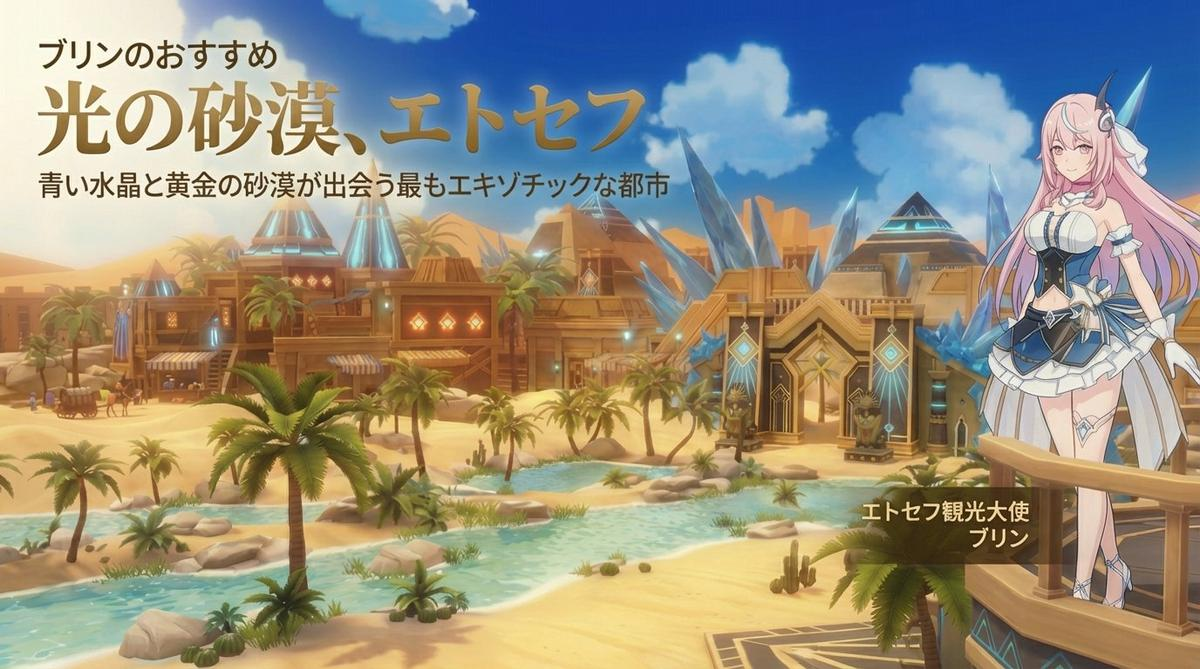
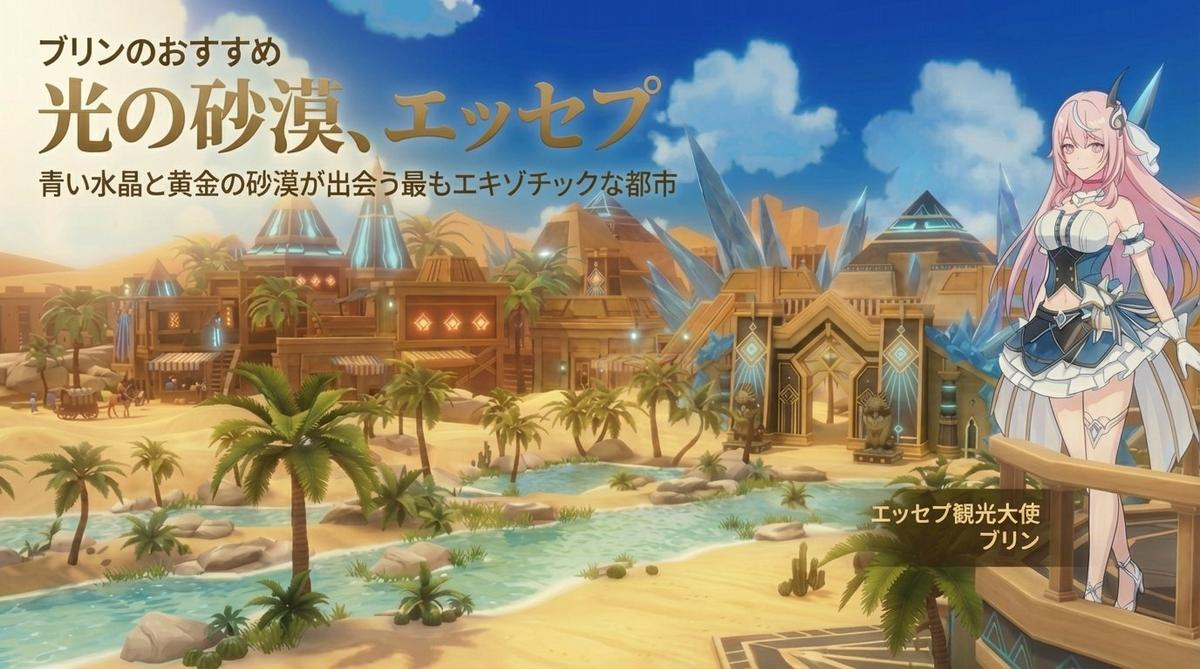
Update all HTML + images

diff --git a/index.html b/index.html
@@ -156,7 +156,7 @@ body {
 .read-more { color: var(--accent); font-weight: 500; text-decoration: none; }
 
 /* ── 광고 사이드 ── */
-.hero-ad { background: var(--ad-bg); display: flex; flex-direction: column; }
+.hero-ad { background: var(--ad-bg); display: flex; flex-direction: column; position: sticky; top: 0; align-self: start; max-height: 100vh; overflow-y: auto; }
 .ad-img-wrap { flex: 1; overflow: hidden; position: relative; min-height: 260px; }
 .ad-img-wrap img { width: 100%; height: 100%; object-fit: cover; display: block; }
 .ad-content { padding: 14px 16px 16px; flex-shrink: 0; }
@@ -928,12 +928,12 @@ body {
     <div class="ticker-item"><span class="ticker-label">EXP</span> Exflo Index <span class="tick-dn">▼ 892.40 −23.4%</span></div>
     <div class="ticker-item"><span class="ticker-label">DSR</span> Desert Oil <span class="tick-up">▲ 441.20 +2.1%</span></div>
     <div class="ticker-item"><span class="ticker-label">BTF</span> Battle Fund <span class="tick-dn">▼ 128.55 −8.7%</span></div>
-    <div class="ticker-item"><span class="ticker-label">ETH</span> Ether Index <span class="tick-dn">▼ −1.5p</span></div>
+    <div class="ticker-item"><span class="ticker-label">ETH</span> Ether Index <span class="tick-dn">▼ 1,024.30 −1.5%</span></div>
     <div class="ticker-item"><span class="ticker-label">MIR</span> Mirsha Exchange <span class="tick-dn">▼ 3,215.75 −16.81%</span></div>
     <div class="ticker-item"><span class="ticker-label">EXP</span> Exflo Index <span class="tick-dn">▼ 892.40 −23.4%</span></div>
     <div class="ticker-item"><span class="ticker-label">DSR</span> Desert Oil <span class="tick-up">▲ 441.20 +2.1%</span></div>
     <div class="ticker-item"><span class="ticker-label">BTF</span> Battle Fund <span class="tick-dn">▼ 128.55 −8.7%</span></div>
-    <div class="ticker-item"><span class="ticker-label">ETH</span> Ether Index <span class="tick-dn">▼ −1.5p</span></div>
+    <div class="ticker-item"><span class="ticker-label">ETH</span> Ether Index <span class="tick-dn">▼ 1,024.30 −1.5%</span></div>
   </div>
 </div>
 
@@ -1041,7 +1041,7 @@ body {
     <div class="feature-body">
       <div class="feature-eyebrow">브린 추천 · Lifestyle</div>
       <h3 class="feature-title">빛의 사막, 엣셉흐 — 공식 홍보대사 브린의 엣셉흐 에센스</h3>
-      <p class="feature-desc">사막 위의 오아시스 엣셉흐는 수많은 관광객이 방문하는 관광 명소이다. 하지만 아름다운 사막 아래에는 위험이 도사리고 있다는 사실을 대다수의 사람들은 잘 모르고 있다. 본 기사에서는 10년차 엣셉흐 전문 투어가이드의 노하우를 총 망라하여…</p>
+      <p class="feature-desc">사막 위의 오아시스 엣셉흐는 수많은 관광객이 방문하는 관광 명소이다. 하지만 아름다운 사막 아래에는 위험이 도사리고 있다는 사실을 대다수의 사람들은 잘 모르고 있다. 본 기사에서는 10년차 엣셉흐 전문 투어가이드의 노하우를 총망라하여…</p>
       <a class="feature-more" href="#">더보기 →</a>
     </div>
   </section>
@@ -1111,9 +1111,9 @@ const ARTICLES = {
     meta: '메르샤 타임즈 경제부 · 4월 1일',
     img: 'images/img_08.jpg',
     lead: '이엑스플로 국가 비상사태 소식이 전해지자마자 메르샤 거래소가 직격탄을 맞아 3,215.75로 마감, 단일 세션 기준 역대 최대 낙폭을 기록했다.',
-    body: `<p class="modal-text">이엑스플로는 화이트팔콘 왕국과 화친 관계에 있는 인접국으로, 양국 간 교역 비중이 높아 이번 비상사태가 메르샤 경제에 직접적인 파급 효과를 일으키고 있다. MIR 지수는 장중 한때 전일 대비 18%를 웃도는 급락세를 보였으며, 주요 교역 관련 종목을 중심으로 패닉셀이 집중됐다.</p>
+    body: `<p class="modal-text">이엑스플로는 화이트팔콘 왕국과 화친 관계에 있는 인접국으로, 양국 간 교역 비중이 높아 이번 비상사태가 메르샤 경제에 직접적인 파급 효과를 일으키고 있다. MIR 지수는 장중 한때 전일 대비 16%를 웃도는 급락세를 보였으며, 주요 교역 관련 종목을 중심으로 패닉셀이 집중됐다.</p>
     <blockquote class="modal-quote">"이엑스플로 사태가 장기화될 경우 양국 교역에 심각한 차질이 불가피합니다." — 메르샤 투자연구소 수석 애널리스트</blockquote>
-    <p class="modal-text">왕실 경제대책위원회는 긴급 회의를 열고 시장 안정화 조치를 검토 중이라고 밝혔다. 시장 전문가들은 이엑스플로 이레귤러 사태의 진압 추이에 따라 변동성이 더욱 확대될 수 있다고 경고하고 있다.</p>`
+    <p class="modal-text">왕실 경제대책위원회는 긴급회의를 열고 시장 안정화 조치를 검토 중이라고 밝혔다. 시장 전문가들은 이엑스플로 이레귤러 사태의 진압 추이에 따라 변동성이 더욱 확대될 수 있다고 경고하고 있다.</p>`
   },
   social: {
     cat: 'Social',
@@ -1155,7 +1155,7 @@ const ARTICLES = {
     meta: '메르샤 타임즈 라이프스타일부 · 4월 1일',
     img: 'images/img_09.jpg',
     lead: '사막 위의 오아시스 엣셉흐는 수많은 관광객이 방문하는 관광 명소이다. 하지만 아름다운 사막 아래에는 위험이 도사리고 있다.',
-    body: `<p class="modal-text">10년차 엣셉흐 전문 투어가이드의 노하우를 총 망라한 이번 특집 기사에서는, 엣셉흐를 안전하고 즐겁게 여행하는 방법을 상세히 소개한다. 공식 홍보대사 브린은 엣셉흐의 숨겨진 매력을 직접 안내해주기도 했다.</p>
+    body: `<p class="modal-text">10년차 엣셉흐 전문 투어가이드의 노하우를 총망라한 이번 특집 기사에서는, 엣셉흐를 안전하고 즐겁게 여행하는 방법을 상세히 소개한다. 공식 홍보대사 브린은 엣셉흐의 숨겨진 매력을 직접 안내해주기도 했다.</p>
     <blockquote class="modal-quote">"엣셉흐는 단순한 사막이 아니에요. 빛과 모래가 만들어내는 마법 같은 공간이죠." — 브린</blockquote>
     <p class="modal-text">무엇보다 중요한 것은 현지 가이드 동반 여행이다. 혼자 사막 깊숙이 들어가는 것은 매우 위험하며, 공식 투어 루트를 벗어나지 않도록 주의해야 한다.</p>`
   },
@@ -1191,7 +1191,7 @@ const ARTICLES = {
     img: 'images/img_12.jpg',
     lead: '엣셉흐 재건사업이 진행되는 현장에서 충격적인 제보가 본지에 입수됐다. 재건사업 현장을 지휘하고 있던 인물이 다름 아닌 반군의 우두머리 카메스였던 것이다.',
     body: `<p class="modal-text">본지에 제보된 사진은 그야말로 충격 그 자체였다. 엣셉흐 재건사업을 진두지휘하고 있던 인물이 다름 아닌 국왕의 극렬한 반대파였던 카메스였던 것. 왕국의 재건사업에 왕국을 몰락시키려 했던 반군의 수장을 기용한다는 것은 일반 국민의 시선에서는 도저히 납득하기 어려운 상황이다.</p>
-    <p class="modal-text">총 사업비 24조 골드라는 천문학적 비용이 투입되는 1차 재건사업은 본래 요타 국왕이 직접 진두지휘할 것으로 알려져 있었다. 그러나 현장에서는 카메스가 실질적인 지휘를 맡고 있었다. 익명의 왕국 고위 관계자는 인터뷰를 통해 그 배경을 이렇게 설명했다.</p>
+    <p class="modal-text">총사업비 24조 골드라는 천문학적 비용이 투입되는 1차 재건사업은 본래 요타 국왕이 직접 진두지휘할 것으로 알려져 있었다. 그러나 현장에서는 카메스가 실질적인 지휘를 맡고 있었다. 익명의 왕국 고위 관계자는 인터뷰를 통해 그 배경을 이렇게 설명했다.</p>
     <blockquote class="modal-quote">"재건 인력 부족이 가장 큰 문제였다. 반군을 융화하는 방식이 해외 노동자 투입 대비 예산 절감 효과가 상당했을 것이다." — 익명의 왕국 고위 관계자</blockquote>
     <p class="modal-text">복수의 왕국 관계자들은 국왕이 AI 기반의 사고방식으로 인해 상식적으로 납득하기 어려운 결정을 종종 내린다는 점을 넌지시 시사하기도 했다. 본지가 카파 경비대장에게 반군 기용에 따른 보안 관리 문제에 대해 서면 질의를 보냈으나 끝내 답변을 받지 못했다. 한편 재건사업 주체를 파악하는 과정에서 2차 하도급법 위반 사례가 있다는 주장까지 터져나오면서 이번 사업을 둘러싼 갈등은 더욱 첨예해질 것으로 전망된다.</p>`
   }
@@ -1410,7 +1410,7 @@ function copyRoyalCoupon() {
       </div>
     </div>
     <!-- 0401 서비스 컷 -->
-    <div class="clinic-after" id="clinicAfter">
+    <div class="clinic-after" id="clinicAfter" onclick="if(event.target===this)closeClinic()">
       <button class="clinic-close" onclick="closeClinic()">✕</button>
       <img src="images/clinic_after.jpg" alt="After" onerror="this.style.display='none'">
     </div>
@@ -1461,7 +1461,7 @@ function copyRoyalCoupon() {
       </div>
     </div>
     <!-- 쿠폰 코드 -->
-    <div class="royal-coupon" id="royalCoupon">
+    <div class="royal-coupon" id="royalCoupon" onclick="if(event.target===this)closeRoyal()">
       <button class="royal-close" onclick="closeRoyal()">✕</button>
       <div class="royal-coupon-box">
         <div class="royal-coupon-icon">🎁</div>

diff --git a/index_ja.html b/index_ja.html
@@ -156,7 +156,7 @@ body {
 .read-more { color: var(--accent); font-weight: 500; text-decoration: none; }
 
 /* ── 광고 사이드 ── */
-.hero-ad { background: var(--ad-bg); display: flex; flex-direction: column; }
+.hero-ad { background: var(--ad-bg); display: flex; flex-direction: column; position: sticky; top: 0; align-self: start; max-height: 100vh; overflow-y: auto; }
 .ad-img-wrap { flex: 1; overflow: hidden; position: relative; min-height: 260px; }
 .ad-img-wrap img { width: 100%; height: 100%; object-fit: cover; display: block; }
 .ad-content { padding: 14px 16px 16px; flex-shrink: 0; }
@@ -201,7 +201,7 @@ body {
 /* ── 피처 배너 ── */
 .feature-band {
   background: #ede8de; border-bottom: 1px solid var(--rule);
-  display: grid; grid-template-columns: minmax(420px, 420px) 1fr;
+  display: grid; grid-template-columns: 420px 1fr;
   overflow: hidden; cursor: pointer; transition: background 0.15s;
   align-items: stretch;
 }
@@ -928,12 +928,12 @@ body {
     <div class="ticker-item"><span class="ticker-label">EXP</span> Exflo Index <span class="tick-dn">▼ 892.40 −23.4%</span></div>
     <div class="ticker-item"><span class="ticker-label">DSR</span> Desert Oil <span class="tick-up">▲ 441.20 +2.1%</span></div>
     <div class="ticker-item"><span class="ticker-label">BTF</span> Battle Fund <span class="tick-dn">▼ 128.55 −8.7%</span></div>
-    <div class="ticker-item"><span class="ticker-label">ETH</span> Ether Index <span class="tick-dn">▼ −1.5p</span></div>
+    <div class="ticker-item"><span class="ticker-label">ETH</span> Ether Index <span class="tick-dn">▼ 1,024.30 −1.5%</span></div>
     <div class="ticker-item"><span class="ticker-label">MIR</span> Mirsha Exchange <span class="tick-dn">▼ 3,215.75 −16.81%</span></div>
     <div class="ticker-item"><span class="ticker-label">EXP</span> Exflo Index <span class="tick-dn">▼ 892.40 −23.4%</span></div>
     <div class="ticker-item"><span class="ticker-label">DSR</span> Desert Oil <span class="tick-up">▲ 441.20 +2.1%</span></div>
     <div class="ticker-item"><span class="ticker-label">BTF</span> Battle Fund <span class="tick-dn">▼ 128.55 −8.7%</span></div>
-    <div class="ticker-item"><span class="ticker-label">ETH</span> Ether Index <span class="tick-dn">▼ −1.5p</span></div>
+    <div class="ticker-item"><span class="ticker-label">ETH</span> Ether Index <span class="tick-dn">▼ 1,024.30 −1.5%</span></div>
   </div>
 </div>
 
@@ -1111,7 +1111,7 @@ const ARTICLES = {
     meta: 'メルシャ・タイムズ経済部 · 4月1日',
     img: 'images/img_08.jpg',
     lead: 'イエクスプロー国家非常事態のニュースが伝わるや否や、メルシャ取引所は直撃を受け3,215.75で取引を終えた。1日の取引としては過去最大の下落幅を記録した。',
-    body: `<p class="modal-text">イエクスプローはホワイトファルコン王国と和平関係にある隣国であり、両国間の貿易比重が高いことから、今回の非常事態はメルシャ経済に直接的な波及効果をもたらしている。MIR指数は場中一時、前日比18%を超える急落を見せ、主要貿易関連銘柄を中心にパニック売りが集中した。</p>
+    body: `<p class="modal-text">イエクスプローはホワイトファルコン王国と和平関係にある隣国であり、両国間の貿易比重が高いことから、今回の非常事態はメルシャ経済に直接的な波及効果をもたらしている。MIR指数は場中一時、前日比16%を超える急落を見せ、主要貿易関連銘柄を中心にパニック売りが集中した。</p>
     <blockquote class="modal-quote">「イエクスプロー事態が長期化した場合、両国間の貿易に深刻な支障が生じることは避けられません」 — メルシャ投資研究所チーフアナリスト</blockquote>
     <p class="modal-text">王室経済対策委員会は緊急会議を開き、市場安定化措置を検討中であると発表した。市場の専門家たちは、イエクスプローにおけるイレギュラー鎮圧の進捗次第では変動性がさらに拡大する可能性があると警告している。</p>`
   },
@@ -1410,7 +1410,7 @@ function copyRoyalCoupon() {
       </div>
     </div>
     <!-- 0401 서비스 컷 -->
-    <div class="clinic-after" id="clinicAfter">
+    <div class="clinic-after" id="clinicAfter" onclick="if(event.target===this)closeClinic()">
       <button class="clinic-close" onclick="closeClinic()">✕</button>
       <img src="images/clinic_after.jpg" alt="After" onerror="this.style.display='none'">
     </div>
@@ -1461,7 +1461,7 @@ function copyRoyalCoupon() {
       </div>
     </div>
     <!-- 쿠폰 코드 -->
-    <div class="royal-coupon" id="royalCoupon">
+    <div class="royal-coupon" id="royalCoupon" onclick="if(event.target===this)closeRoyal()">
       <button class="royal-close" onclick="closeRoyal()">✕</button>
       <div class="royal-coupon-box">
         <div class="royal-coupon-icon">🎁</div>

diff --git a/index_tw.html b/index_tw.html
@@ -156,7 +156,7 @@ body {
 .read-more { color: var(--accent); font-weight: 500; text-decoration: none; }
 
 /* ── 광고 사이드 ── */
-.hero-ad { background: var(--ad-bg); display: flex; flex-direction: column; }
+.hero-ad { background: var(--ad-bg); display: flex; flex-direction: column; position: sticky; top: 0; align-self: start; max-height: 100vh; overflow-y: auto; }
 .ad-img-wrap { flex: 1; overflow: hidden; position: relative; min-height: 260px; }
 .ad-img-wrap img { width: 100%; height: 100%; object-fit: cover; display: block; }
 .ad-content { padding: 14px 16px 16px; flex-shrink: 0; }
@@ -201,7 +201,7 @@ body {
 /* ── 피처 배너 ── */
 .feature-band {
   background: #ede8de; border-bottom: 1px solid var(--rule);
-  display: grid; grid-template-columns: minmax(420px, 420px) 1fr;
+  display: grid; grid-template-columns: 420px 1fr;
   overflow: hidden; cursor: pointer; transition: background 0.15s;
   align-items: stretch;
 }
@@ -928,12 +928,12 @@ body {
     <div class="ticker-item"><span class="ticker-label">EXP</span> Exflo Index <span class="tick-dn">▼ 892.40 −23.4%</span></div>
     <div class="ticker-item"><span class="ticker-label">DSR</span> Desert Oil <span class="tick-up">▲ 441.20 +2.1%</span></div>
     <div class="ticker-item"><span class="ticker-label">BTF</span> Battle Fund <span class="tick-dn">▼ 128.55 −8.7%</span></div>
-    <div class="ticker-item"><span class="ticker-label">ETH</span> Ether Index <span class="tick-dn">▼ −1.5p</span></div>
+    <div class="ticker-item"><span class="ticker-label">ETH</span> Ether Index <span class="tick-dn">▼ 1,024.30 −1.5%</span></div>
     <div class="ticker-item"><span class="ticker-label">MIR</span> Mirsha Exchange <span class="tick-dn">▼ 3,215.75 −16.81%</span></div>
     <div class="ticker-item"><span class="ticker-label">EXP</span> Exflo Index <span class="tick-dn">▼ 892.40 −23.4%</span></div>
     <div class="ticker-item"><span class="ticker-label">DSR</span> Desert Oil <span class="tick-up">▲ 441.20 +2.1%</span></div>
     <div class="ticker-item"><span class="ticker-label">BTF</span> Battle Fund <span class="tick-dn">▼ 128.55 −8.7%</span></div>
-    <div class="ticker-item"><span class="ticker-label">ETH</span> Ether Index <span class="tick-dn">▼ −1.5p</span></div>
+    <div class="ticker-item"><span class="ticker-label">ETH</span> Ether Index <span class="tick-dn">▼ 1,024.30 −1.5%</span></div>
   </div>
 </div>
 
@@ -1111,7 +1111,7 @@ const ARTICLES = {
     meta: '美洛沙時報經濟部 · 4月1日',
     img: 'images/img_08.jpg',
     lead: '伊克斯普洛國家緊急狀態的消息一經傳出，美洛沙交易所隨即遭受重創，收於3,215.75，創下單日交易史上最大跌幅。',
-    body: `<p class="modal-text">伊克斯普洛是與白鷹王國締結和平條約的鄰國，兩國間貿易比重甚高，此次緊急狀態正對美洛沙經濟產生直接的衝擊。MIR指數盤中一度較前日暴跌逾18%，主要貿易相關個股成為恐慌性拋售的集中區域。</p>
+    body: `<p class="modal-text">伊克斯普洛是與白鷹王國締結和平條約的鄰國，兩國間貿易比重甚高，此次緊急狀態正對美洛沙經濟產生直接的衝擊。MIR指數盤中一度較前日暴跌逾16%，主要貿易相關個股成為恐慌性拋售的集中區域。</p>
     <blockquote class="modal-quote">「若伊克斯普洛事態長期化，兩國間貿易將不可避免地遭受嚴重衝擊。」 — 美洛沙投資研究所首席分析師</blockquote>
     <p class="modal-text">王室經濟對策委員會已召開緊急會議，並表示正在研擬市場穩定措施。市場專家警告，視伊克斯普洛異形怪鎮壓進展而定，波動性可能進一步加劇。</p>`
   },
@@ -1410,7 +1410,7 @@ function copyRoyalCoupon() {
       </div>
     </div>
     <!-- 0401 서비스 컷 -->
-    <div class="clinic-after" id="clinicAfter">
+    <div class="clinic-after" id="clinicAfter" onclick="if(event.target===this)closeClinic()">
       <button class="clinic-close" onclick="closeClinic()">✕</button>
       <img src="images/clinic_after.jpg" alt="After" onerror="this.style.display='none'">
     </div>
@@ -1461,7 +1461,7 @@ function copyRoyalCoupon() {
       </div>
     </div>
     <!-- 쿠폰 코드 -->
-    <div class="royal-coupon" id="royalCoupon">
+    <div class="royal-coupon" id="royalCoupon" onclick="if(event.target===this)closeRoyal()">
       <button class="royal-close" onclick="closeRoyal()">✕</button>
       <div class="royal-coupon-box">
         <div class="royal-coupon-icon">🎁</div>

diff --git a/index_en.html b/index_en.html
@@ -156,7 +156,7 @@ body {
 .read-more { color: var(--accent); font-weight: 500; text-decoration: none; }
 
 /* ── 광고 사이드 ── */
-.hero-ad { background: var(--ad-bg); display: flex; flex-direction: column; }
+.hero-ad { background: var(--ad-bg); display: flex; flex-direction: column; position: sticky; top: 0; align-self: start; max-height: 100vh; overflow-y: auto; }
 .ad-img-wrap { flex: 1; overflow: hidden; position: relative; min-height: 260px; }
 .ad-img-wrap img { width: 100%; height: 100%; object-fit: cover; display: block; }
 .ad-content { padding: 14px 16px 16px; flex-shrink: 0; }
@@ -928,12 +928,12 @@ body {
     <div class="ticker-item"><span class="ticker-label">EXP</span> Exflo Index <span class="tick-dn">▼ 892.40 −23.4%</span></div>
     <div class="ticker-item"><span class="ticker-label">DSR</span> Desert Oil <span class="tick-up">▲ 441.20 +2.1%</span></div>
     <div class="ticker-item"><span class="ticker-label">BTF</span> Battle Fund <span class="tick-dn">▼ 128.55 −8.7%</span></div>
-    <div class="ticker-item"><span class="ticker-label">ETH</span> Ether Index <span class="tick-dn">▼ −1.5p</span></div>
+    <div class="ticker-item"><span class="ticker-label">ETH</span> Ether Index <span class="tick-dn">▼ 1,024.30 −1.5%</span></div>
     <div class="ticker-item"><span class="ticker-label">MIR</span> Mirsha Exchange <span class="tick-dn">▼ 3,215.75 −16.81%</span></div>
     <div class="ticker-item"><span class="ticker-label">EXP</span> Exflo Index <span class="tick-dn">▼ 892.40 −23.4%</span></div>
     <div class="ticker-item"><span class="ticker-label">DSR</span> Desert Oil <span class="tick-up">▲ 441.20 +2.1%</span></div>
     <div class="ticker-item"><span class="ticker-label">BTF</span> Battle Fund <span class="tick-dn">▼ 128.55 −8.7%</span></div>
-    <div class="ticker-item"><span class="ticker-label">ETH</span> Ether Index <span class="tick-dn">▼ −1.5p</span></div>
+    <div class="ticker-item"><span class="ticker-label">ETH</span> Ether Index <span class="tick-dn">▼ 1,024.30 −1.5%</span></div>
   </div>
 </div>
 
@@ -1111,7 +1111,7 @@ const ARTICLES = {
     meta: 'Mirsha Times Business Desk · April 1',
     img: 'images/img_08.jpg',
     lead: 'The Mirsha Exchange closed at 3,215.75 on Monday — its steepest single-session decline on record — as the Ful.Mi.NATION emergency sent shockwaves through regional markets.',
-    body: `<p class="modal-text">As a key trading partner of the Kingdom of the White Falcon, Ful.Mi.NATION's crisis immediately rippled through the Mirsha economy. The MIR index cratered more than 18% in intraday trading, with trade-linked stocks bearing the brunt of heavy sell-offs.</p>
+    body: `<p class="modal-text">As a key trading partner of the Kingdom of the White Falcon, Ful.Mi.NATION's crisis immediately rippled through the Mirsha economy. The MIR index cratered more than 16% in intraday trading, with trade-linked stocks bearing the brunt of heavy sell-offs.</p>
     <blockquote class="modal-quote">"A prolonged crisis in Ful.Mi.NATION would deal a severe blow to bilateral trade. The exposure is significant." — Chief Analyst, Mirsha Investment Research Institute</blockquote>
     <p class="modal-text">The Royal Economic Countermeasures Committee held an emergency session and said it is evaluating market stabilization options. Analysts warn that further volatility is all but certain, depending on how quickly Ful.Mi.NATION can contain the Irregular threat.</p>`
   },
@@ -1410,7 +1410,7 @@ function copyRoyalCoupon() {
       </div>
     </div>
     <!-- 0401 서비스 컷 -->
-    <div class="clinic-after" id="clinicAfter">
+    <div class="clinic-after" id="clinicAfter" onclick="if(event.target===this)closeClinic()">
       <button class="clinic-close" onclick="closeClinic()">✕</button>
       <img src="images/clinic_after.jpg" alt="After" onerror="this.style.display='none'">
     </div>
@@ -1461,7 +1461,7 @@ function copyRoyalCoupon() {
       </div>
     </div>
     <!-- 쿠폰 코드 -->
-    <div class="royal-coupon" id="royalCoupon">
+    <div class="royal-coupon" id="royalCoupon" onclick="if(event.target===this)closeRoyal()">
       <button class="royal-close" onclick="closeRoyal()">✕</button>
       <div class="royal-coupon-box">
         <div class="royal-coupon-icon">🎁</div>
